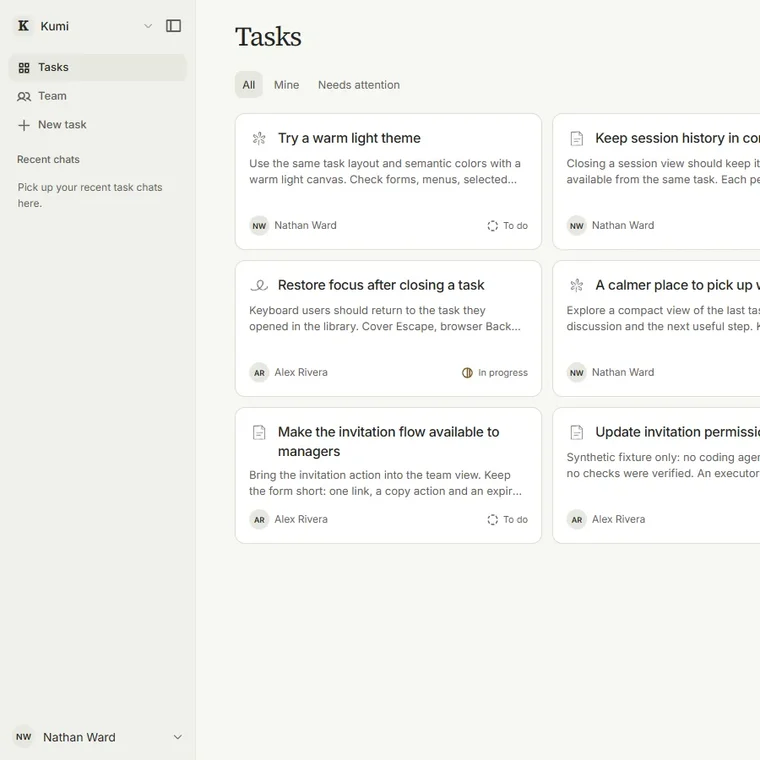
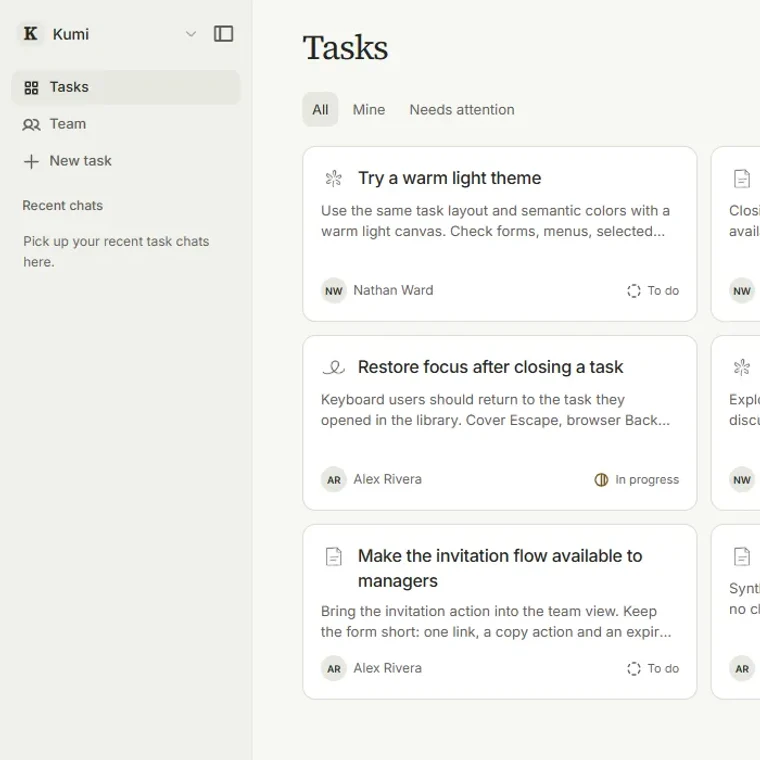
The shuffle moves the card you are actually looking at
TOP was hardcoded to the last seat, but the seats carry their own z and the
one on top is the second — so the peel was running on a card behind the one
you could see, which is why the front card appeared to sit still and swap its
picture. It is worked out from z now.

About could not be read to the end: the reading line sits at 42% of the
screen and the page ran out of scroll before the last line got there. It has
the room now. The marks move inside the full stop, and the pile is offset
enough to see there are four of them.

Siege carries what the agent sees: a box per unit, red for the opponent and
blue for ours, with a name and a confidence. The numbers are for show. Kumi
and Formulate are cropped tighter; Machina goes back to the wider box, since
the tighter one cut the discs.

Dragging a tile moves the picture and leaves the name under it alone. The art
half signs off with the Instagram mark by itself.

About renders the name in a button, and the UA sheet resets text-transform on
form controls, which is how it lost its capitals. It matches the home page
again.

diff --git a/components/signs/landing.tsx b/components/signs/landing.tsx
@@ -39,9 +39,13 @@ const FAN: Record<Side, string[]> = {
 };
 
 const other = (s: Side): Side => (s === 'art' ? 'engineering' : 'art');
-/** The card sitting on top of the squared-up deck. It is the only one you can
- *  see while they are stacked, so it is the only one that has to travel. */
-const TOP = 3;
+/**
+ * The card sitting on top of the squared-up deck: the one with the highest
+ * z, which is not the last in the list. It is the only one you can see while
+ * they are stacked, so it is the only one that has to travel — and picking
+ * the wrong one means the card you are looking at just swaps its picture.
+ */
+const TOP = SEATS.reduce((best, seat, i) => (seat.z > SEATS[best].z ? i : best), 0);
 const instagram = CONTACTS.find((c) => c.id === 'instagram');
 /** The two worth following on the engineering side, shown as marks rather than words. */
 const FOLLOW = CONTACTS.filter((c) => c.id === 'linkedin' || c.id === 'github');
@@ -81,25 +85,25 @@ function Tile({
       animate={reduce || seen ? rest : low}
       transition={{ duration: reduce ? 0.01 : 0.55, ease: [0.22, 1, 0.3, 1], delay: reduce ? 0 : (i % 3) * 0.08 }}
     >
-      {/* the same give the cards in the fan have: nudge it and it springs back.
-          The drag sits inside the reveal, so the two are not writing x and y
-          over the top of one another. */}
-      <motion.div
-        className="hm-tile-drag"
-        drag={!reduce}
-        dragConstraints={{ left: -14, right: 14, top: -14, bottom: 14 }}
-        dragElastic={0.2}
-        dragSnapToOrigin
-        dragTransition={{ bounceStiffness: 420, bounceDamping: 26 }}
-        transition={{ type: 'spring', stiffness: 340, damping: 24 }}
-      >
       <button type="button" onClick={onOpen} aria-label={`Open ${label}`}>
-        <span className="hm-tile">
-          {image && (
-            /* eslint-disable-next-line @next/next/no-img-element */
-            <img src={base() + image} alt="" loading="lazy" draggable={false} />
-          )}
-        </span>
+        {/* the same give the cards in the fan have: nudge it and it springs back.
+            Only the picture moves — the name under it stays put. */}
+        <motion.span
+          className="hm-tile-drag"
+          drag={!reduce}
+          dragConstraints={{ left: -14, right: 14, top: -14, bottom: 14 }}
+          dragElastic={0.2}
+          dragSnapToOrigin
+          dragTransition={{ bounceStiffness: 420, bounceDamping: 26 }}
+          transition={{ type: 'spring', stiffness: 340, damping: 24 }}
+        >
+          <span className="hm-tile">
+            {image && (
+              /* eslint-disable-next-line @next/next/no-img-element */
+              <img src={base() + image} alt="" loading="lazy" draggable={false} />
+            )}
+          </span>
+        </motion.span>
         {line && (
           <span className="hm-tile-text">
             <span className="hm-tile-name">{label}</span>
@@ -107,7 +111,6 @@ function Tile({
           </span>
         )}
       </button>
-      </motion.div>
     </motion.li>
   );
 }
@@ -354,13 +357,13 @@ export function Landing({
         {side === 'art' ? (
           <>
             <h3 className="hm-work-title">Want more?</h3>
-            <p className="hm-foot-line">
-              Follow me on{' '}
-              <a className="hm-foot-ig" href={instagram?.href} target="_blank" rel="noreferrer">
-                <BrandIcon id="instagram" size={19} />
-                {instagram?.handle}
-              </a>
-            </p>
+            <ul className="hm-social">
+              <li>
+                <a href={instagram?.href} target="_blank" rel="noreferrer" aria-label={`Instagram ${instagram?.handle}`}>
+                  <BrandIcon id="instagram" size={23} />
+                </a>
+              </li>
+            </ul>
           </>
         ) : (
           <>

diff --git a/components/signs/signs.css b/components/signs/signs.css
@@ -1082,7 +1082,7 @@ a.ch-sign:focus-visible .ch-content { outline: 3px dashed var(--ink); outline-of
   text-transform: uppercase;
   color: var(--ink);
 }
-.ab2-body { max-width: 940px; margin: 0 auto; padding-bottom: 22vh; overflow: visible; }
+.ab2-body { max-width: 940px; margin: 0 auto; padding-bottom: 62vh; overflow: visible; }
 .ab2-line {
   margin: 0 0 0.5em;
   font-family: var(--disp);
@@ -1449,22 +1449,6 @@ a.ch-sign:focus-visible .ch-content { outline: 3px dashed var(--ink); outline-of
   .hm-clients-slot { min-height: 104px; }
 }
 
-/* the art half signs off with somewhere to follow rather than a list of links */
-.hm-foot-line {
-  margin: clamp(12px, 2vh, 20px) 0 0;
-  font-size: 15px;
-  color: var(--ink-soft);
-}
-.hm-foot-line a {
-  color: var(--ink);
-  text-decoration: none;
-  border-bottom: 1.5px solid var(--ink-faint);
-  padding-bottom: 1px;
-  transition: border-color 0.25s ease;
-}
-.hm-foot-line a:hover { border-color: var(--ink); }
-.hm-foot-line a:focus-visible { outline: 2px solid var(--ink); outline-offset: 3px; }
-
 /* the engineering half signs off with two marks, not a list of words */
 .hm-social {
   display: flex;
@@ -1486,14 +1470,13 @@ a.ch-sign:focus-visible .ch-content { outline: 3px dashed var(--ink); outline-of
 }
 .hm-social a:hover { transform: translateY(-4px); border-color: var(--ink); background: #fff; }
 .hm-social a:focus-visible { outline: 2px solid var(--ink); outline-offset: 3px; }
-.hm-foot-ig { display: inline-flex; align-items: center; gap: 7px; vertical-align: -0.3em; }
 @media (prefers-reduced-motion: reduce) {
   .hm-social a { transition: none; }
   .hm-social a:hover { transform: none; }
 }
 
 /* a gallery tile gives under the cursor too, and springs back */
-.hm-tile-drag { touch-action: pan-y; }
+.hm-tile-drag { display: block; touch-action: pan-y; }
 
 /* ---- About: a small pile of marks, fanning out when you reach for it ---- */
 /* sized off the line it sits in, and fanning to the right so it never covers
@@ -1530,9 +1513,16 @@ a.ch-sign:focus-visible .ch-content { outline: 3px dashed var(--ink); outline-of
 .hm-name-link {
   position: relative;
   display: inline-block;
+  padding: 0;
+  border: 0;
+  background: none;
   color: inherit;
   text-decoration: none;
   cursor: pointer;
+  /* About renders this as a button, and the UA sheet resets both of these on
+     form controls — which is how the name there lost its capitals */
+  font: inherit;
+  text-transform: inherit;
   transition: transform 0.4s cubic-bezier(0.22, 1, 0.3, 1);
 }
 .hm-name-text { display: inline-block; }

diff --git a/components/signs/about.tsx b/components/signs/about.tsx
@@ -109,7 +109,7 @@ export function About({ onHome }: { onHome: () => void }) {
                   rel="noreferrer"
                   aria-label={c.label}
                   style={{ zIndex: CONTACTS.length - n }}
-                  animate={open ? { x: `${n * 112}%`, rotate: 0, scale: 1 } : { x: `${n * 11}%`, rotate: LEAN[n], scale: 0.96 }}
+                  animate={open ? { x: `${n * 112}%`, rotate: 0, scale: 1 } : { x: `${n * 21}%`, y: `${n * -5}%`, rotate: LEAN[n], scale: 1 - n * 0.03 }}
                   transition={reduce ? { duration: 0 } : { type: 'spring', stiffness: 380, damping: 30, delay: (fan ? n : CONTACTS.length - 1 - n) * 0.03 }}
                   whileHover={reduce ? undefined : { y: -5 }}
                 >
@@ -118,6 +118,7 @@ export function About({ onHome }: { onHome: () => void }) {
               ))}
             </div>
             )}
+            {i === ABOUT.paragraphs.length - 1 && '.'}
           </motion.p>
         ))}
       </div>

diff --git a/components/signs/content.ts b/components/signs/content.ts
@@ -13,7 +13,7 @@ export const ABOUT = {
     "In Winter 2027 I'm joining Machina Labs as a simulation engineer.",
     'I also run an art business, painting custom shoes.',
     'Before transferring, I placed in the top 1% in the nation on the 2025 organic chemistry ACS exam.',
-    'I like building fast, and working at the frontier. Say hi.',
+    'I like building fast, and working at the frontier. Say hi',
   ],
 
 
